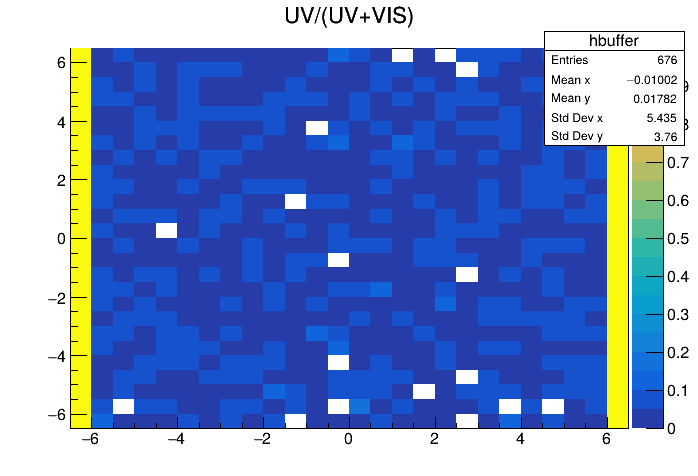
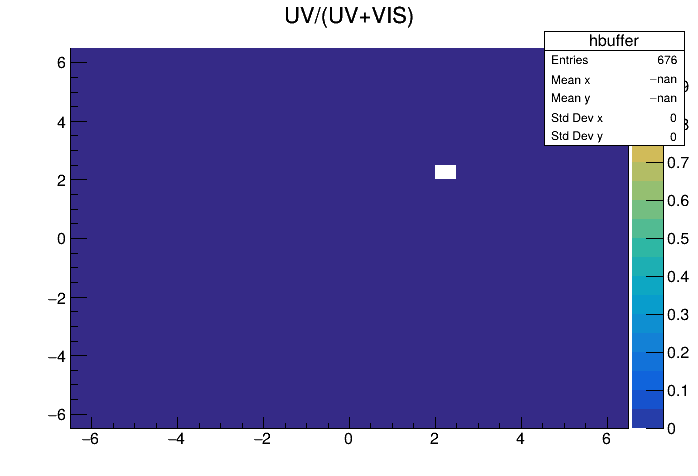
final?

diff --git a/project/src/DetectorConstruction.cc b/project/src/DetectorConstruction.cc
@@ -53,6 +53,7 @@ G4VPhysicalVolume* DetectorConstruction::Construct()
     G4double world_sizeX = config_world["size"][0].get<double>()*cm;
     G4double world_sizeY = config_world["size"][1].get<double>()*cm;
     G4double world_sizeZ = config_world["size"][2].get<double>()*cm;
+
     G4cout << "LAr World size: " << world_sizeX/m << " .m  X " << world_sizeY/m << " .m  X " << world_sizeZ/m << " .m " << std::endl;
 
     // -----  Liquid Argon Filling --------
@@ -175,9 +176,9 @@ G4VPhysicalVolume* DetectorConstruction::Construct()
     // -----  Liquid Argon && Cryostat Interface Boundary --------
 
     G4OpticalSurface* surface_cryo_lar = new G4OpticalSurface("surface_cryo_lar");
-    surface_cryo_lar-> SetModel(unified);
-    surface_cryo_lar-> SetType(dielectric_metal);
-    surface_cryo_lar-> SetFinish(polished);
+    surface_cryo_lar->SetModel(unified);
+    surface_cryo_lar->SetType(dielectric_metal);
+    surface_cryo_lar->SetFinish(polished);
     G4MaterialPropertiesTable* mpt_CryoLar_Surface = new G4MaterialPropertiesTable();
 
     std::string file_vikuiti_reflectance = config_Reflector["reflectivity"].get<string>();
@@ -211,9 +212,9 @@ G4VPhysicalVolume* DetectorConstruction::Construct()
      // -----  Liquid Argon && ANODE Interface Boundary --------
 
     G4OpticalSurface* surface_anode_lar = new G4OpticalSurface("surface_anode_lar");
-    surface_anode_lar-> SetModel(unified);
-    surface_anode_lar-> SetType(dielectric_metal);
-    surface_anode_lar-> SetFinish(polished);
+    surface_anode_lar->SetModel(unified);
+    surface_anode_lar->SetType(dielectric_metal);
+    surface_anode_lar->SetFinish(polished);
     G4MaterialPropertiesTable* mpt_AnodeLar_Surface = new G4MaterialPropertiesTable();
 
     G4cout << "Anode Reflectivity: " << config_LAr["reflectivity_anode"].get<double>() << std::endl;
@@ -405,9 +406,9 @@ G4VPhysicalVolume* DetectorConstruction::Construct()
     // -----  Liquid Argon && FC Interface Boundary --------
 
     G4OpticalSurface* surface_FC_lar = new G4OpticalSurface("surface_FC_lar");
-    surface_FC_lar-> SetModel(unified);
-    surface_FC_lar-> SetType(dielectric_metal);
-    surface_FC_lar-> SetFinish(polished);
+    surface_FC_lar->SetModel(unified);
+    surface_FC_lar->SetType(dielectric_metal);
+    surface_FC_lar->SetFinish(polished);
     G4MaterialPropertiesTable* mpt_FCLar_Surface = new G4MaterialPropertiesTable();
     G4cout << "FC Reflectivity: " << config_FC["reflectivity"].get<double>() << std::endl;
 
@@ -750,7 +751,6 @@ G4VPhysicalVolume* DetectorConstruction::Construct()
     // ---- Creating Cathode grid -------- 
 
     auto config_Cathode = config["Cathode_Grid"];
-
     double cathode_X = config_Cathode["length_x"].get<double>()*cm; //pen_X - 2*pen_thickness;
     double cathode_Z = config_Cathode["length_z"].get<double>()*cm; //pen_Z - 2*pen_thickness;
     double cathode_hole_X = config_Cathode["hole_x"].get<double>()*cm;
@@ -933,7 +933,8 @@ G4VPhysicalVolume* DetectorConstruction::Construct()
 
     // Surface properties
     auto sipmSurface = new G4OpticalSurface("SiPM_Surface");
-    sipmSurface->SetType(dielectric_metal);  
+    sipmSurface->SetType(dielectric_metal);
+    //sipmSurface->SetType(dielectric_dielectric);    
     sipmSurface->SetFinish(polished);
     sipmSurface->SetModel(unified);
 

diff --git a/project/src/SteppingAction.cc b/project/src/SteppingAction.cc
@@ -6,13 +6,48 @@
 #include "G4VPhysicalVolume.hh"
 #include "G4SystemOfUnits.hh"
 #include "G4ios.hh"
+#include "G4RunManager.hh"
+#include "RunAction.hh"
 
 SteppingAction::SteppingAction() {}
 SteppingAction::~SteppingAction() {}
 
+G4ThreadLocal int cont_PEN=0;
+
 void SteppingAction::UserSteppingAction(const G4Step* step)
 {
+
     auto track = step->GetTrack();
+    G4String particle = track->GetDefinition()->GetParticleName();
+
+    // PreStep volume info
+    G4StepPoint *aPrePoint = step->GetPreStepPoint();
+    G4VPhysicalVolume *aPrePV = aPrePoint->GetPhysicalVolume();
+    G4String PreVolName = "";
+    if (aPrePV)
+        PreVolName = aPrePV->GetName();
+
+    // PostStep volume info
+    G4StepPoint *aPostPoint = step->GetPostStepPoint();
+    G4VPhysicalVolume *aPostPV = aPostPoint->GetPhysicalVolume();
+    G4String PostVolName = "";
+    if (aPostPV)
+        PostVolName = aPostPV->GetName();
+
+    if (particle == "opticalphoton")
+    {
+        if(G4StrUtil::contains(PreVolName,"argon") && G4StrUtil::contains(PostVolName,"PEN"))
+        {
+            auto Energy = aPostPoint->GetTotalEnergy();
+            if(Energy>9*eV && Energy<12*eV)
+            {
+                auto runAction = const_cast<RunAction*>(static_cast<const RunAction*>(G4RunManager::GetRunManager()->GetUserRunAction()));
+                runAction->AddPenCount(1);
+            }
+        }
+    }
+
+    /* auto track = step->GetTrack();
     auto pos = track->GetPosition();
     auto preVolume = step->GetPreStepPoint()->GetPhysicalVolume(); // <-- seguro
     auto eventID = G4EventManager::GetEventManager()->GetConstCurrentEvent()->GetEventID();
@@ -29,5 +64,5 @@ void SteppingAction::UserSteppingAction(const G4Step* step)
                << " TrackID: " << track->GetTrackID()
                << " Volume: [NULL - saiu do mundo]"
                << " Position: " << pos << G4endl;
-    }
+    } */
 }

diff --git a/project/src/PrimaryGeneratorAction.cc b/project/src/PrimaryGeneratorAction.cc
@@ -71,9 +71,9 @@ void PrimaryGeneratorAction::GeneratePrimaries(G4Event* anEvent)
             fParticleGun->SetParticleEnergy(7.08*eV);  //175nm
         }
 
-        G4double x_pos = 0*m;//(-1+2*G4UniformRand())*cryostat_sizeX/2;
+        G4double x_pos = (-0.25 + 0.5*G4UniformRand())*m;
         G4double y_pos = 2*m; //(-1+2*G4UniformRand())*cryostat_sizeY/2;
-        G4double z_pos = 0*m; //(-1+2*G4UniformRand())*cryostat_sizeZ/2;
+        G4double z_pos = 2*m; //(-1+2*G4UniformRand())*cryostat_sizeZ/2;
 
         G4String targetVolumeName = "argon";
 
@@ -85,8 +85,8 @@ void PrimaryGeneratorAction::GeneratePrimaries(G4Event* anEvent)
         /* x_pos = (-0.25 + 0.5*G4UniformRand())*m;
         y_pos = (-1 + 2*G4UniformRand())*cryostat_sizeY/2;
         z_pos = (-1 + 2*G4UniformRand())*cryostat_sizeZ/2;
- */
-        do 
+        */
+      /*    do 
         {
             // Sorteia posição dentro do criostato
             x_pos = (-0.25 + 0.5*G4UniformRand())*m;
@@ -100,7 +100,7 @@ void PrimaryGeneratorAction::GeneratePrimaries(G4Event* anEvent)
                         ->LocateGlobalPointAndSetup(pos);
           
                 //G4cout << volume->GetName() << std::endl;       
-        }while (!volume || std::string(volume->GetName()).find(targetVolumeName) == std::string::npos);
+        }while (!volume || std::string(volume->GetName()).find(targetVolumeName) == std::string::npos); */
 
         //G4cout << volume->GetName() << std::endl;
 

diff --git a/project/src/RunAction.cc b/project/src/RunAction.cc
@@ -14,8 +14,9 @@
 
 //....oooOO0OOooo........oooOO0OOooo........oooOO0OOooo........oooOO0OOooo......
 
-RunAction::RunAction(): G4UserRunAction(), fOutputFileName("./Data")
+RunAction::RunAction(): G4UserRunAction(), fOutputFileName("./Data") //, fPenCount(0)
 {
+    //G4AccumulableManager::Instance()->RegisterAccumulable(fPenCount);
     fRunMessenger = new RunActionMessenger(this);
     G4RunManager::GetRunManager()->SetPrintProgress(1);
     G4AnalysisManager* analysisManager = G4AnalysisManager::Instance();
@@ -51,6 +52,7 @@ void RunAction::BeginOfRunAction(const G4Run*)
     fileOutput += ".root";
     G4AnalysisManager* analysisManager = G4AnalysisManager::Instance();
     analysisManager->OpenFile(fileOutput);
+    //G4AccumulableManager::Instance()->Reset();
 
 }
 
@@ -63,6 +65,15 @@ void RunAction::EndOfRunAction(const G4Run*)
     G4cout<<"[INFO]: Write the output file "<<fOutputFileName<<".root"<<G4endl;
     analysisManager->Write();
     analysisManager->CloseFile();
+
+ /*    G4AccumulableManager::Instance()->Merge();
+
+    if (IsMaster())
+    {
+        G4cout << "[INFO]: Write the output file ./Data.root" << G4endl;
+        G4cout << "Total de optical photons detectados no PEN: "
+               << fPenCount.GetValue() << G4endl;
+    } */
 }
 
 //....oooOO0OOooo........oooOO0OOooo........oooOO0OOooo........oooOO0OOooo......

diff --git a/project/src/SensitiveDetector.cc b/project/src/SensitiveDetector.cc
@@ -65,6 +65,7 @@ G4bool SensitiveDetector::ProcessHits(G4Step *aStep, G4TouchableHistory *)
     {
         G4String procName = aStep->GetPostStepPoint()->GetProcessDefinedStep()->GetProcessName();
         G4bool checkAbsorption = G4StrUtil::contains(procName,"Absorption");
+        //G4cout << "Process:" << procName << std::endl;
 
         const auto& sipm_spectrum = SiPMSpectrum::get();
         std::vector<G4double> eff;
@@ -73,7 +74,7 @@ G4bool SensitiveDetector::ProcessHits(G4Step *aStep, G4TouchableHistory *)
         int n;
         if(checkAbsorption==true and G4StrUtil::contains(thisVolume,"sipmVIS"))
         {   
-            G4cout << "VIS" << std::endl;
+            //G4cout << "VIS" << std::endl;
             isVIS=true;
             eff = sipm_spectrum.get_effVIS();
             E = sipm_spectrum.get_EVIS();
@@ -81,7 +82,7 @@ G4bool SensitiveDetector::ProcessHits(G4Step *aStep, G4TouchableHistory *)
         }
         else if(checkAbsorption==true and G4StrUtil::contains(thisVolume,"sipmUV"))
         {   
-            G4cout << "UV" << std::endl;
+            //G4cout << "UV" << std::endl;
             isUV=true;
             eff = sipm_spectrum.get_effUV();
             E = sipm_spectrum.get_EUV();

diff --git a/project/src/ActionInitialization.cc b/project/src/ActionInitialization.cc
@@ -4,6 +4,7 @@
 #include "EventAction.hh"
 #include "SteppingAction.hh"
 #include "TrackingAction.hh"
+#include "MyStackingAction.hh"
 
 //....oooOO0OOooo........oooOO0OOooo........oooOO0OOooo........oooOO0OOooo......
 
@@ -35,9 +36,11 @@ void ActionInitialization::Build() const
 
   EventAction* eventAction = new EventAction();
   SetUserAction(eventAction);
-
   SetUserAction(new MyTrackingAction());
+  
   //SetUserAction(new SteppingAction());
+  //SetUserAction(new MyStackingAction());
+  
 }
 
 //....oooOO0OOooo........oooOO0OOooo........oooOO0OOooo........oooOO0OOooo......
